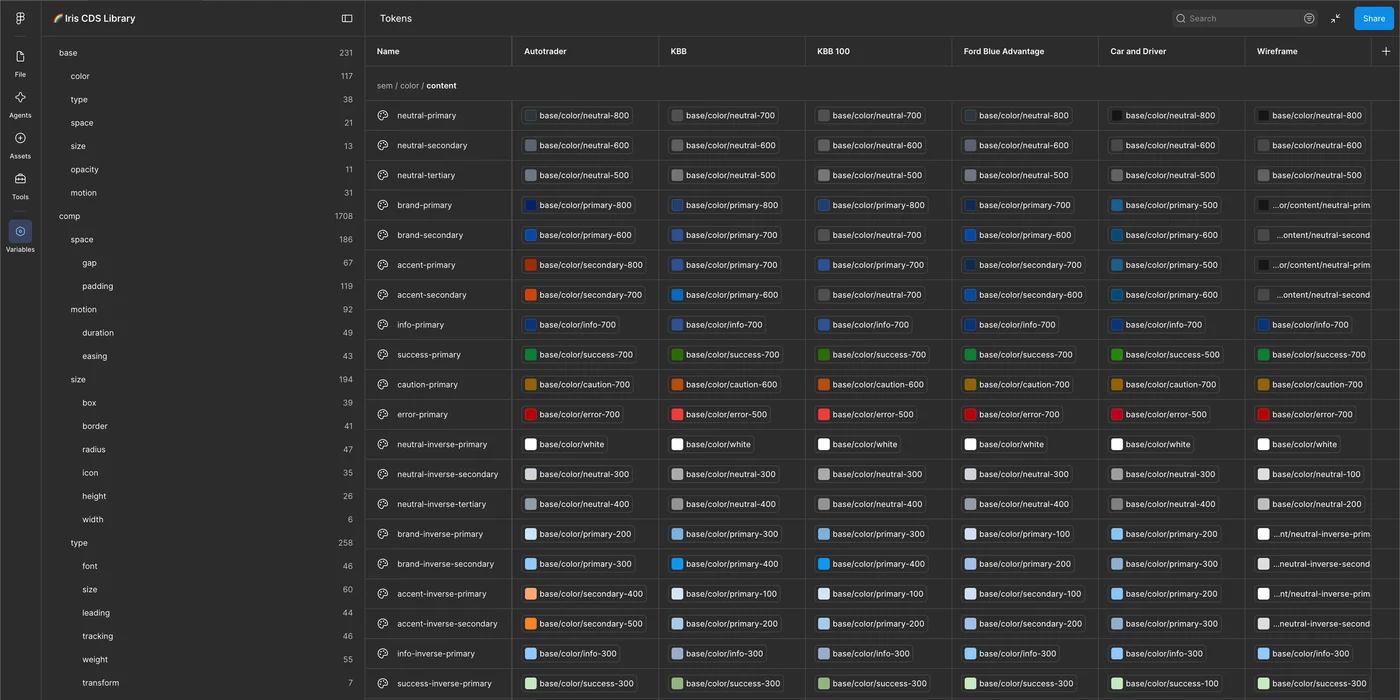
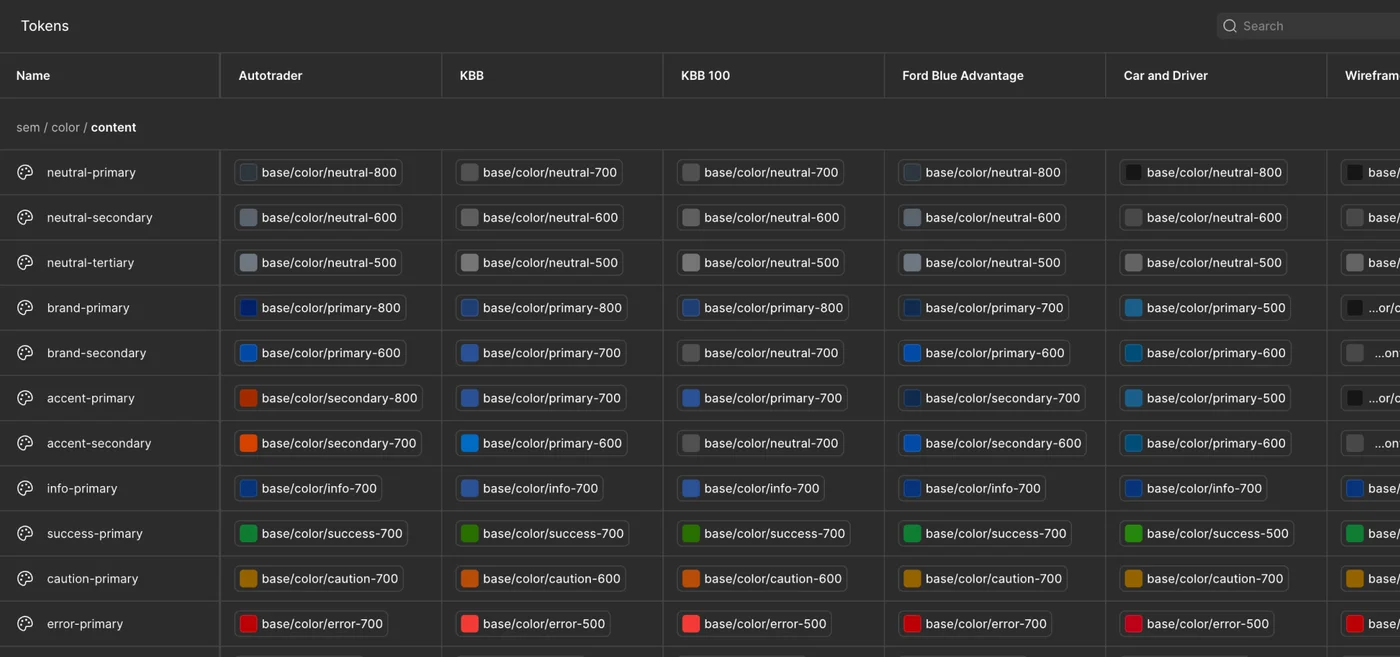
Polish Iris case study: nav match, spacing fixes, copy updates, new token table
Matches the nav background to the page canvas, tightens the Challenges/
Foundations heading spacing to match the rest of the page, adds the
typography-scale paragraph under Foundations, reorders the Tokens copy,
credits Volvo in the intro, and swaps in the updated Figma token table image.

diff --git a/iris-design-system.html b/iris-design-system.html
@@ -40,6 +40,10 @@
       background-color: #F5F5F5;
     }
 
+    nav {
+      background: #F5F5F5;
+    }
+
     /* ── View transition ── */
     .vt-bg {
       position: fixed;
@@ -116,6 +120,12 @@
 
     .body-text li {
       margin-bottom: 0.8rem;
+    }
+
+    /* ── Standalone heading directly above a non-text-section block: match
+       the heading-to-paragraph gap used when they share a .text-section ── */
+    .text-section--tight {
+      padding-bottom: 1.8rem;
     }
 
     /* ── Challenges grid ── */
@@ -519,7 +529,7 @@
 
     <!-- Intro text -->
     <div class="intro-text" style="grid-template-columns: 1fr; text-align: center;">
-      <p>Iris is Cox Automotive's consumer design system, powering Autotrader, Kelley Blue Book, and OEM dealer sites including Audi and Chevrolet. What started as a two-brand toolkit is now the shared platform every brand theme runs on.</p>
+      <p>Iris is Cox Automotive's consumer design system, powering Autotrader, Kelley Blue Book, and OEM dealer sites like Audi, Chevrolet, and Volvo. What started as a two-brand toolkit is now the shared platform every brand theme runs on.</p>
     </div>
 
     <!-- The Problem -->
@@ -529,7 +539,7 @@
     </div>
 
     <!-- Challenges -->
-    <div class="text-section">
+    <div class="text-section text-section--tight">
       <h2 class="section-heading">Challenges</h2>
     </div>
 
@@ -549,7 +559,7 @@
     </div>
 
     <!-- System architecture -->
-    <div class="text-section">
+    <div class="text-section text-section--tight">
       <h2 class="section-heading">Foundations</h2>
     </div>
 
@@ -564,6 +574,10 @@
 
     <div class="full-image">
       <div id="lottie-foundations-detail" class="lottie-block" data-lottie="animations/iris-foundations-detail.json" role="img" aria-label="Animated breakdown of Iris foundational elements: color palette, type scale, key shapes, and grid" style="aspect-ratio: 2000/998; height: auto;"></div>
+    </div>
+
+    <div class="text-section">
+      <p class="body-text">My initial area of focus was selecting typefaces, and building a typography scale. The scale was adapted from a minor 3rd scale. We transitioned to using REM rather than hardcoded values for typographic attributes to retain flexibility across themes.</p>
     </div>
 
     <!-- Components -->
@@ -604,7 +618,7 @@
     <!-- Tokens -->
     <div class="text-section">
       <h2 class="section-heading">Tokens</h2>
-      <p class="body-text">A token system was established, following a semantic rather than literal framework. A token named for a color locks the system to one brand. A token named for its job lets multiple brands share one component, and still retain their unique brand traits. This is where the real magic with Iris shows. Tokens were created for all aspects of component design decisions: color, space, padding/margin, motion, and typography.</p>
+      <p class="body-text">A token system was established, following a semantic rather than literal framework. Tokens were created for all aspects of component design decisions: color, space, padding/margin, motion, and typography. A token named for a color locks the system to one brand. A token named for its job lets multiple brands share one component, and still retain their unique brand traits. This is where the real magic with Iris shows.</p>
     </div>
 
     <div class="full-image">
@@ -617,7 +631,7 @@
     </div>
 
     <div class="full-image">
-      <img srcset="img/iris_token_table-w800.webp 800w, img/iris_token_table.webp 1400w" sizes="92vw" width="1400" height="700" src="img/iris_token_table.webp" alt="Iris CDS Library in Figma: token variables table with one row per token and one column per brand, including Autotrader, KBB, Ford Blue Advantage, and Car and Driver" loading="lazy">
+      <img srcset="img/iris_token_table-w800.webp 800w, img/iris_token_table.webp 1400w" sizes="92vw" width="1400" height="657" src="img/iris_token_table.webp" alt="Iris CDS Library in Figma: token variables table with one row per token and one column per brand, including Autotrader, KBB, KBB 100, Ford Blue Advantage, and Car and Driver" loading="lazy">
       <p class="img-caption">The token system as it lives in Figma, one row per token, one column per brand.</p>
     </div>
 
@@ -642,7 +656,7 @@
     <!-- Governance -->
     <div class="text-section">
       <h2 class="section-heading">Governance</h2>
-      <p class="body-text">I joined the governance team, helping define how changes get reviewed as more components, and additional themes come online. Every change now moves from proposal to production on a defined path, with design and engineering bought in. I also run a bi-weekly Iris open office hours meeting to assist product designers requesting new components, or extended functionality, or need guidance or answer questions about the design system.</p>
+      <p class="body-text">I joined the Iris governance team, helping define how changes get reviewed as more components, and additional themes come online. Every change now moves from proposal to production on a defined path, with design and engineering bought in. I also run a bi-weekly Iris open office hours meeting to assist product designers requesting new components, or extended functionality, or need guidance or answer questions about the design system.</p>
     </div>
 
     <!-- Evolution -->
